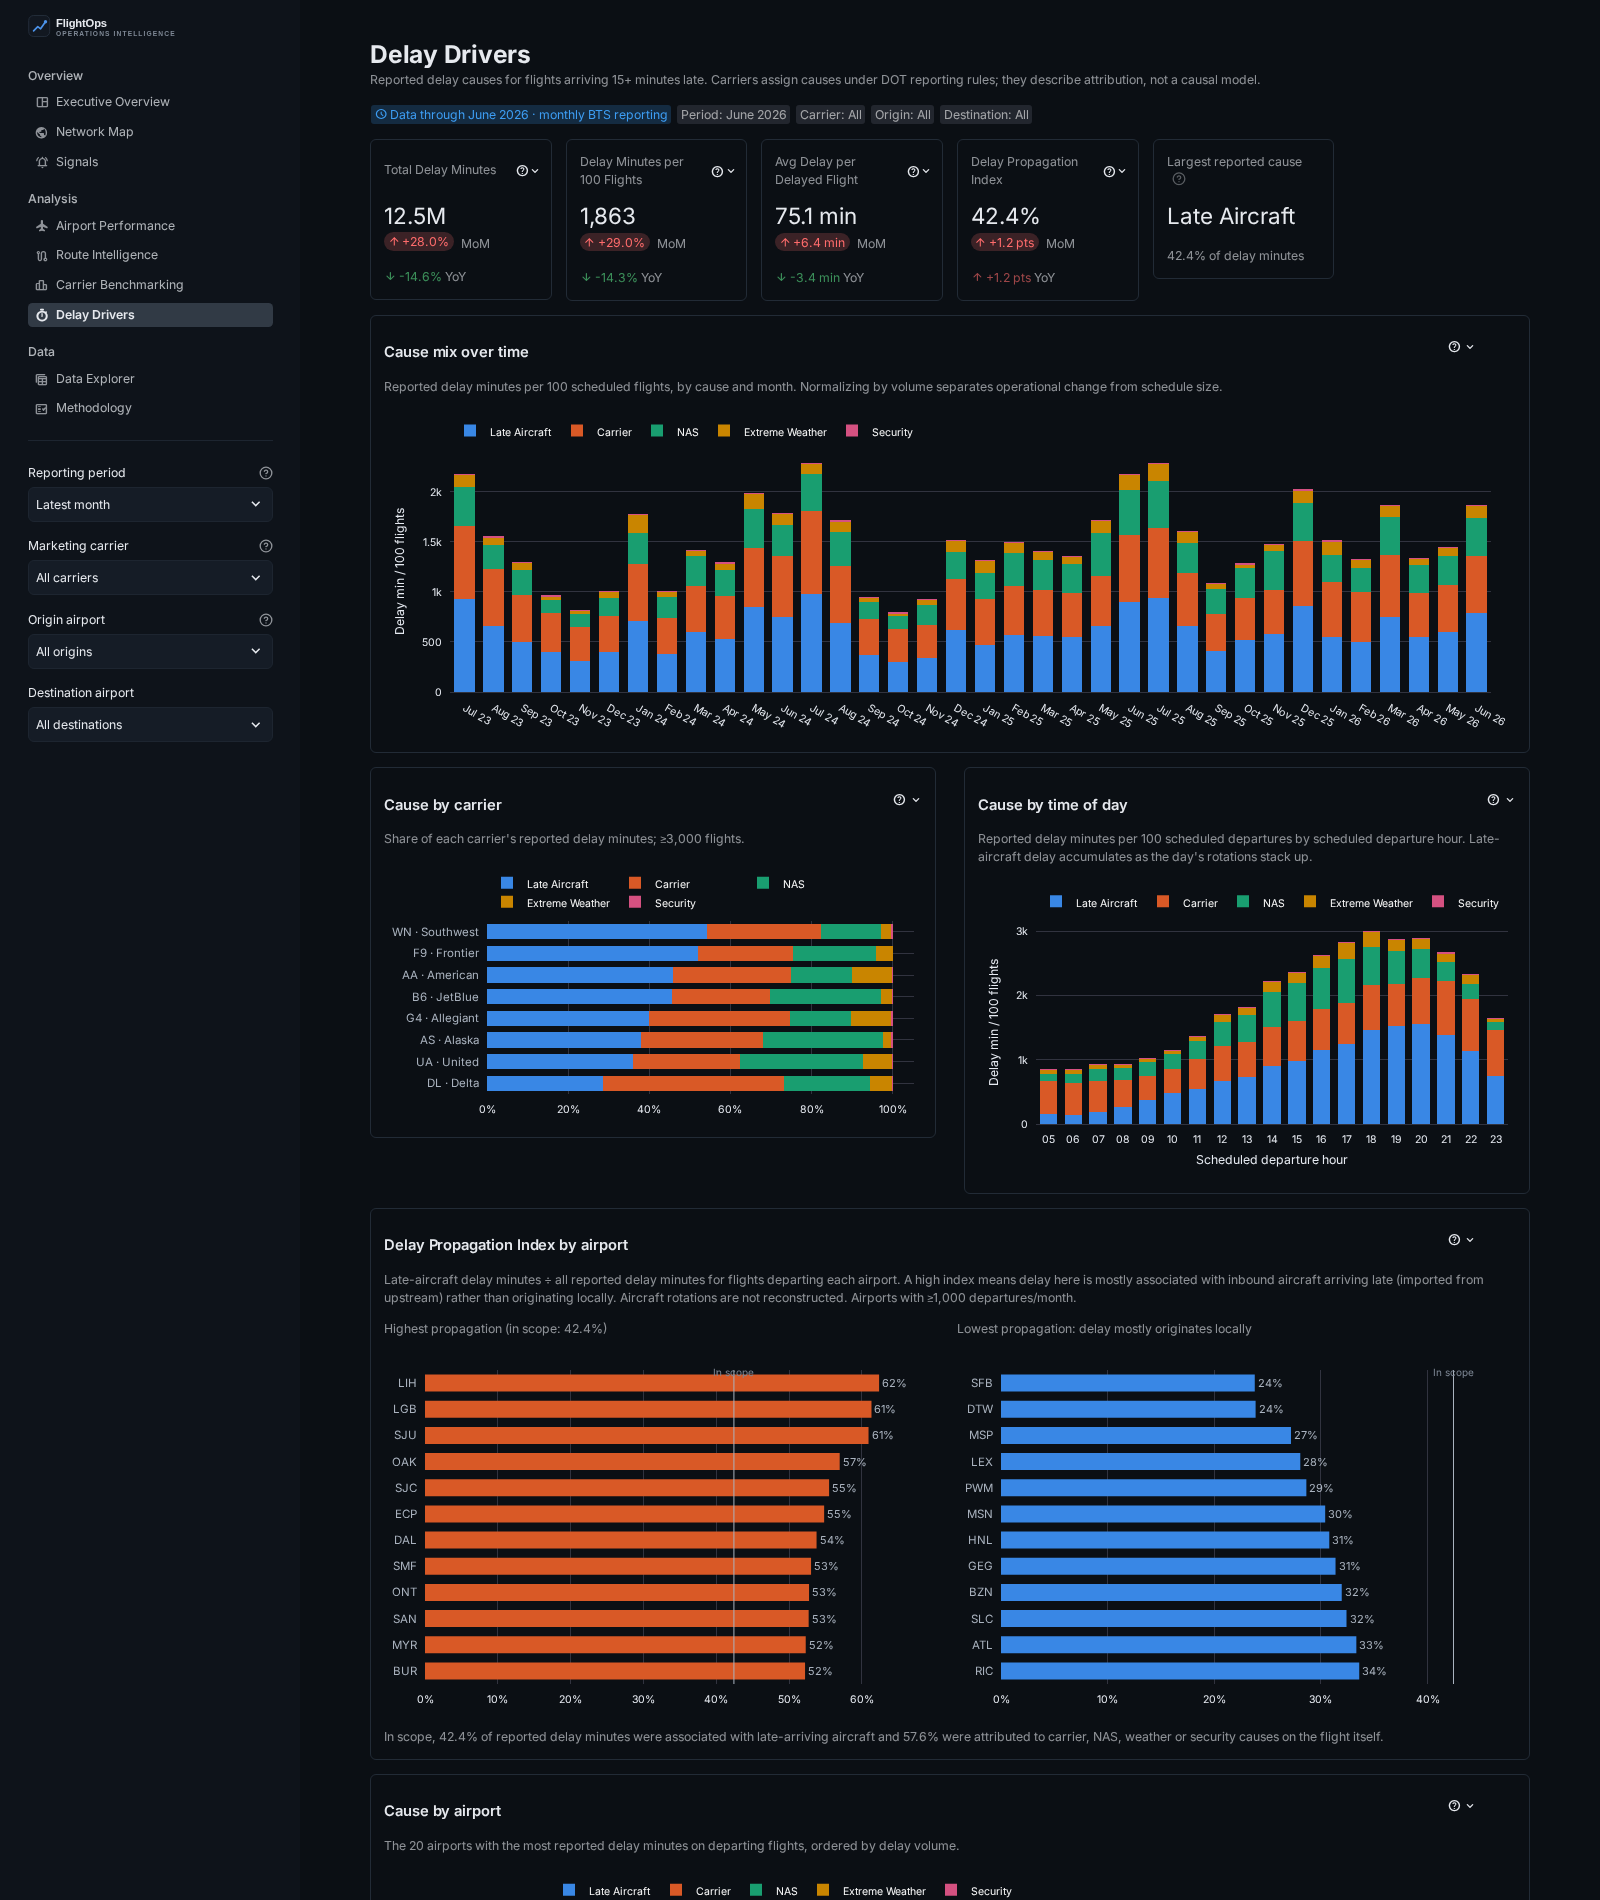
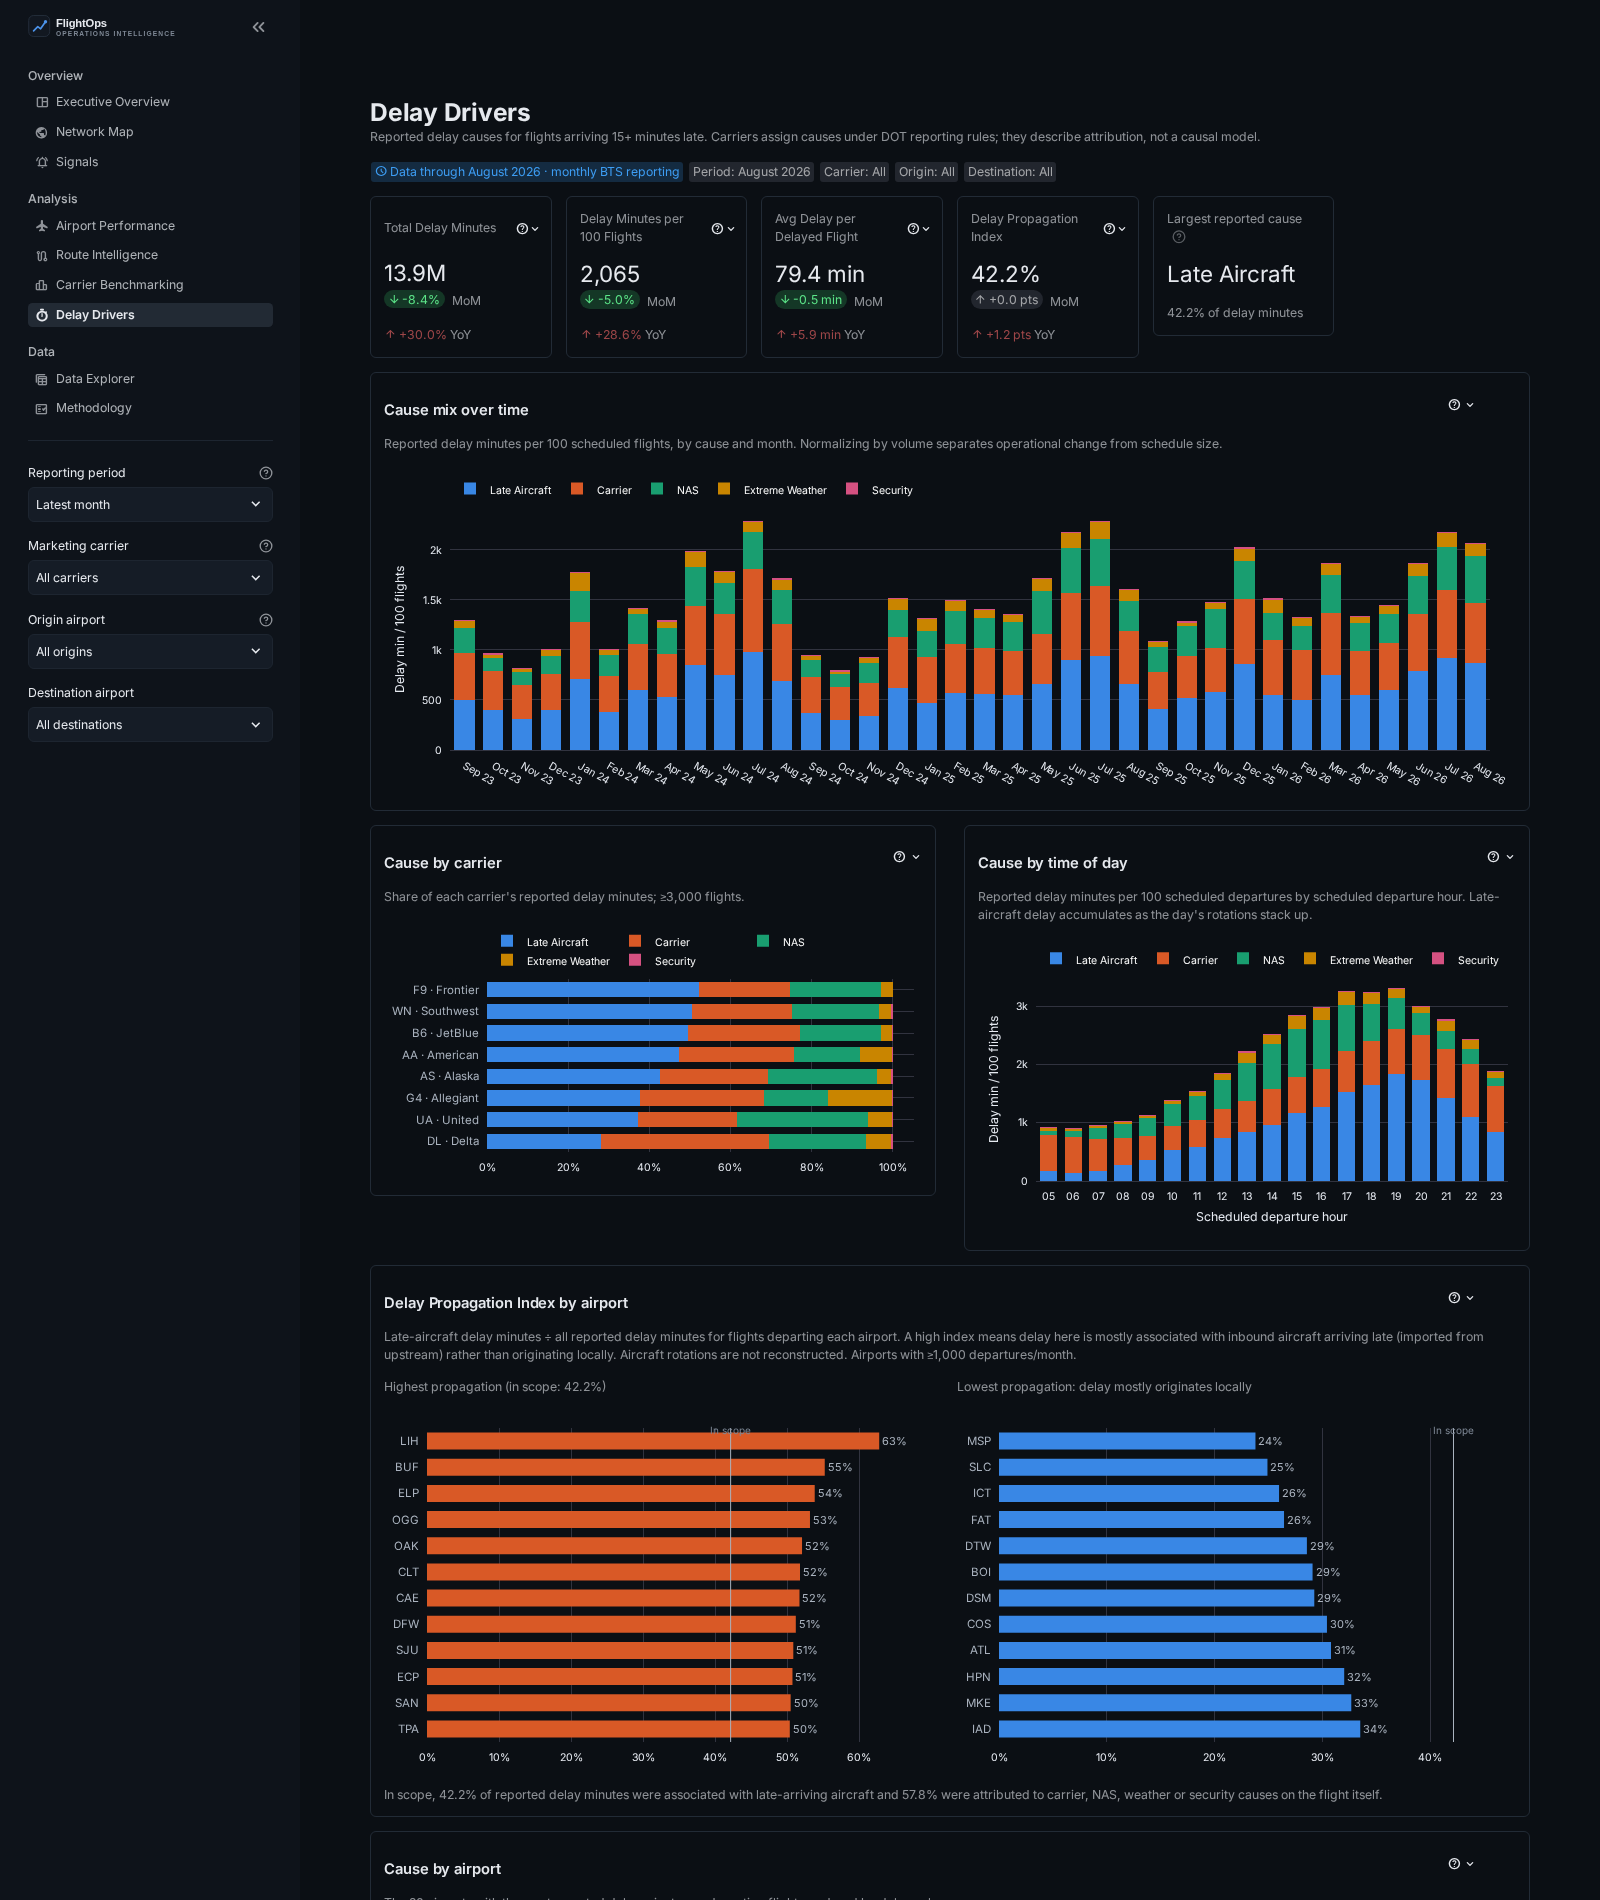
docs: re-shoot screenshots and update the flight count in the header image
The screenshots now show the 80px title padding and data through August 2026. The
problem-section header image is a raster with no editable source, so its figure was
repainted from 22.9 to 23.0 million (22,957,747 flights) in the same typeface.

Changed region(s): [[0.2188, 0.0, 0.9375, 0.6832], [0.25, 0.6521, 0.875, 1.0], [0.5938, 0.5279, 0.625, 0.5589]]

diff --git a/README.md b/README.md
@@ -21,7 +21,7 @@ you can clone it and start exploring immediately. No data download or API key is
 > FlightOps analyzes historical BTS reporting. It is not a live flight tracker, disruption-management system or
 > prediction service.
 
-![From reports to insight: make 22.9 million flights understandable](docs/images/readme-header-problem.png)
+![From reports to insight: make 23.0 million flights understandable](docs/images/readme-header-problem.png)
 
 ## Why FlightOps exists
 
@@ -281,6 +281,14 @@ python -c "from flightops.data.pipeline import reconcile; print(len(reconcile())
 The test suite covers query construction, metric behavior, comparison direction, page rendering, filter combinations,
 route identity, schema validation, idempotent refreshes, reconciliation, signal thresholds and deterministic narrative.
 It uses synthetic source data where needed and does not download BTS files.
+
+The screenshots in this README come from a headless browser run of the app. Re-shoot them after any interface or data
+change (Playwright is used only here, never by the app):
+
+```bash
+uv run --no-project --with-requirements requirements.txt --with playwright==1.62.0 \
+  python scripts/capture_screenshots.py
+```
 
 Issues and pull requests are welcome. Changes to analytical behavior should keep definitions centralized, preserve
 additive fact-table contracts, document new assumptions and include tests for denominator and edge-case behavior.
